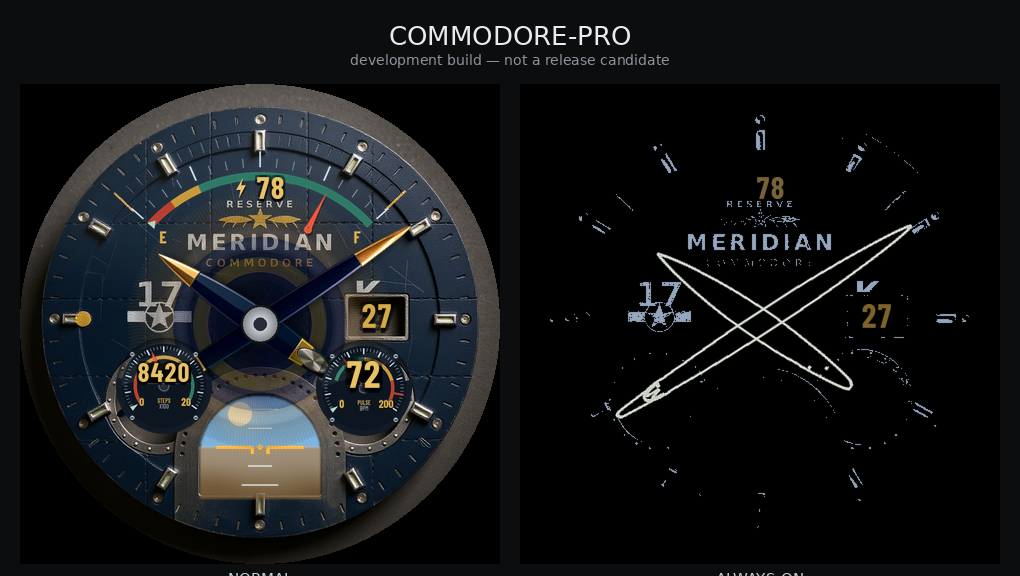
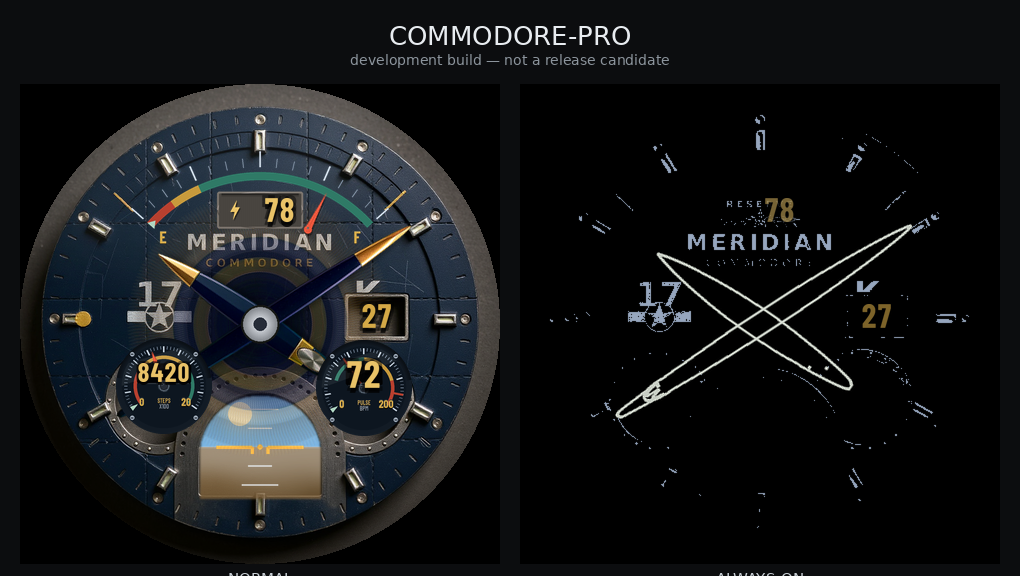
The battery number gets a window, and a stamping bug gets found
IT LOOKED THROWN ON BECAUSE IT HAD NO CONTAINER. Every other number on this
face sits in something: the sub-dial readouts in a recess cut into their own
gauge face, the date in a brass-framed aperture punched through the plate. The
fuel readout floated on bare textured navy with only a drop shadow, and a
shadow says "above" without saying "in".

So it gets the plate's OWN window idiom rather than an invented one — sampled
off cm_dial's date aperture: a warm grey frame at #78716A around a brushed
bronze interior at #49453F, lighter along the top edge where the bevel catches
light, darker at the bottom. Matching an idiom the face already owns is what
makes an addition look designed in rather than dropped on.

COST, STATED PLAINLY: the window covers the plate's RESERVE wording and its
wing emblem. The 24px slot above RESERVE was never tall enough for a framed
aperture, and the frame is the thing that stops the number floating. RESERVE
is misleading for a battery anyway — it is the aviation term for reserve FUEL
— and the bolt now carries that meaning. Say if the wing should come back; it
is one constant.

AND A REAL BUG, WITH WIDER REACH THAN THIS FACE. ImageDraw REPLACES a pixel,
alpha included — it does not blend. So every translucent shadow drawn straight
onto an opaque surface was not darkening it, it was PUNCHING A HOLE. Measured:
the window's interior came out at alpha 245 with a band of 92 along the top
[…]

diff --git a/tools/make_an_gauge.py b/tools/make_an_gauge.py
@@ -107,7 +107,24 @@ START_DEG = 235.0
 SWEEP_DEG = 250.0
 
 
-def engrave(d, xy, text, font, fill, p, anchor="mm", depth=1.0):
+def shade(img, fn):
+    """Composite semi-transparent work instead of stamping it.
+
+    ImageDraw REPLACES a pixel, alpha included — it does not blend. So a
+    "shadow" drawn at alpha 150 straight onto an opaque surface does not
+    darken it, it PUNCHES A HOLE to alpha 150 and the plate shows through.
+    That is exactly what happened to the fuel readout's window: its interior
+    measured alpha 245 with a band of 92 along the top where the inner shadow
+    was, and the plate's RESERVE wording read straight through it.
+
+    Anything translucent therefore goes onto its own layer and is composited.
+    """
+    layer = Image.new("RGBA", img.size, (0, 0, 0, 0))
+    fn(ImageDraw.Draw(layer))
+    img.alpha_composite(layer)
+
+
+def engrave(d, xy, text, font, fill, p, anchor="mm", depth=1.0, img=None):
     """Text with depth, instead of text laid flat on the dial.
 
     Real instrument lettering is either etched into the face or raised off
@@ -118,9 +135,16 @@ def engrave(d, xy, text, font, fill, p, anchor="mm", depth=1.0):
     """
     x, y = xy
     o = max(1.0, depth * SS * 0.9)
-    d.text((x, y + o), text, font=font, fill=p["emboss_lo"], anchor=anchor)
-    d.text((x, y - o * 0.7), text, font=font, fill=p["emboss_hi"],
-           anchor=anchor)
+    if img is not None:
+        shade(img, lambda dd: (
+            dd.text((x, y + o), text, font=font, fill=p["emboss_lo"],
+                    anchor=anchor),
+            dd.text((x, y - o * 0.7), text, font=font, fill=p["emboss_hi"],
+                    anchor=anchor)))
+    else:
+        d.text((x, y + o), text, font=font, fill=p["emboss_lo"], anchor=anchor)
+        d.text((x, y - o * 0.7), text, font=font, fill=p["emboss_hi"],
+               anchor=anchor)
     d.text((x, y), text, font=font, fill=fill, anchor=anchor)
 
 
@@ -159,11 +183,14 @@ def gauge(size: int, label: str, unit: str, numerals: list[tuple[float, str]],
     # 1 WELL — dark disc, with the rim shadowing into the top of it
     if bezel:
         d.ellipse(_arc_box(c, r_out), fill=p["well"])
-        for i in range(10, 0, -1):
-            rr = r_face + (r_out - r_face) * i / 10.0
-            d.arc(_arc_box(c, rr), 190, 350,
-                  fill=(0, 0, 0, int(120 * i / 10.0)),
-                  width=max(1, int(SS * 1.2)))
+        def _well(dd):
+            for i in range(10, 0, -1):
+                rr = r_face + (r_out - r_face) * i / 10.0
+                dd.arc(_arc_box(c, rr), 190, 350,
+                       fill=(0, 0, 0, int(120 * i / 10.0)),
+                       width=max(1, int(SS * 1.2)))
+        shade(img, _well)
+        d = ImageDraw.Draw(img)
 
     # 2 DIAL FACE — matte, graded very slightly darker at the bottom
     d.ellipse(_arc_box(c, r_face), fill=p["face"])
@@ -304,11 +331,13 @@ def finish(img, geom, size: int, counter: str | None, bezel: bool,
         # A cut window, not a dark patch: the aperture is punched through the
         # dial, so its top edge shadows inward and its bottom edge catches
         # the light coming down the panel.
-        d.rounded_rectangle(box, radius=pad, fill=(0, 0, 0, 215))
-        d.line([(box[0] + pad, box[1]), (box[2] - pad, box[1])],
-               fill=(0, 0, 0, 235), width=max(1, int(SS * 1.6)))
-        d.line([(box[0] + pad, box[3]), (box[2] - pad, box[3])],
-               fill=(255, 255, 255, 40), width=max(1, int(SS * 1.1)))
+        shade(img, lambda dd: (
+            dd.rounded_rectangle(box, radius=pad, fill=(0, 0, 0, 215)),
+            dd.line([(box[0] + pad, box[1]), (box[2] - pad, box[1])],
+                    fill=(0, 0, 0, 235), width=max(1, int(SS * 1.6))),
+            dd.line([(box[0] + pad, box[3]), (box[2] - pad, box[3])],
+                    fill=(255, 255, 255, 40), width=max(1, int(SS * 1.1)))))
+        d = ImageDraw.Draw(img)
         if counter is not None:
             engrave(d, (c, cy), counter, f_c, p["counter"], p, depth=1.4)
 
@@ -471,6 +500,56 @@ def fuel_needle(canvas: int, cx: float, cy: float, r_tip: float,
     d.ellipse([CX - boss * 0.42, CY - root - boss * 0.62,
                CX + boss * 0.1, CY - root - boss * 0.05],
               fill=(255, 255, 255, 90))
+    return img.resize((canvas, canvas), Image.LANCZOS)
+
+
+def counter_window(canvas: int, cx: float, cy: float, w: float, h: float,
+                   pal: dict | None = None) -> Image.Image:
+    """A framed, recessed readout window, matching the plate's date aperture.
+
+    The battery number read as thrown on, and the reason was that it had no
+    container. Every other number on this face sits in something: the
+    sub-dial readouts in a recess cut into their own gauge face, the date in
+    a brass-framed aperture punched through the plate. The fuel readout was
+    floating on bare textured navy with only a drop shadow to hold it, and a
+    shadow says "above" without saying "in".
+
+    So it gets the plate's OWN window idiom, sampled from cm_dial's date
+    aperture: a warm grey frame around a brushed bronze interior, lighter
+    along the top edge where the bevel catches light and darker at the
+    bottom. Matching an idiom the face already owns is what makes an addition
+    look designed in rather than dropped on.
+    """
+    p = dict(PALETTE, **(pal or {}))
+    S = canvas * SS
+    img = Image.new("RGBA", (S, S), (0, 0, 0, 0))
+    d = ImageDraw.Draw(img)
+    X, Y = cx * SS, cy * SS
+    W, H = w * SS / 2.0, h * SS / 2.0
+    r = max(2, int(SS * 2.5))
+    fr = max(2, int(SS * 1.4))
+
+    box = [X - W, Y - H, X + W, Y + H]
+    # frame, then a lighter top edge and darker bottom so it reads as bevel
+    d.rounded_rectangle(box, radius=r, fill=(120, 113, 106, 255))
+    d.arc(box, 180, 360, fill=(146, 138, 133, 255), width=fr)
+    d.arc(box, 0, 180, fill=(88, 82, 76, 255), width=fr)
+    # brushed bronze interior, sampled off the plate's date window
+    inner = [X - W + fr * 1.6, Y - H + fr * 1.6, X + W - fr * 1.6,
+             Y + H - fr * 1.6]
+    d.rounded_rectangle(inner, radius=max(1, r - fr), fill=(73, 69, 64, 255))
+    def _inside(dd):
+        for i in range(int(inner[0]), int(inner[2]), max(1, SS)):
+            if (i // max(1, SS)) % 2:
+                dd.line([(i, inner[1]), (i, inner[3])],
+                        fill=(66, 62, 57, 120), width=1)
+        # the aperture is punched THROUGH, so its top edge casts inward
+        for i in range(6):
+            a = int(150 * (1 - i / 6.0))
+            dd.line([(inner[0] + r, inner[1] + i * SS * 0.6),
+                     (inner[2] - r, inner[1] + i * SS * 0.6)],
+                    fill=(0, 0, 0, a), width=max(1, int(SS * 0.7)))
+    shade(img, _inside)
     return img.resize((canvas, canvas), Image.LANCZOS)
 
 

diff --git a/tools/make_pro_face.py b/tools/make_pro_face.py
@@ -163,8 +163,15 @@ FUEL_START, FUEL_SWEEP, FUEL_R = -48.0, 96.0, 152.0
 # The readout sits BELOW the arc's apex (r=152 puts that at y=88) and above
 # the plate's RESERVE at y=116 — a 26px band, so the number is centred in it
 # rather than straddling the arc as it did at first.
-FUEL_TEXT_CY = 104.0
-BOLT_X = 221.0
+# The readout now sits in a framed window BELOW the arc rather than in the
+# 24px slot above the plate's RESERVE. That slot was never big enough for a
+# framed aperture, and the frame is what stops the number floating.
+# Cost, stated plainly: the window covers the plate's RESERVE wording and its
+# wing emblem. RESERVE is misleading for a battery anyway — it is the
+# aviation term for reserve FUEL — and the bolt now carries that meaning.
+FUEL_WIN = (240.0, 126.0, 86.0, 37.0)      # cx, cy, w, h
+FUEL_TEXT_CY = 126.0
+BOLT_X = 215.0
 COUNTER_CY = 0.36        # must match make_an_gauge.COUNTER_CY
 
 
@@ -252,10 +259,9 @@ def instruments(pre: str) -> list[str]:
     # reserve and date, also enlarged — "all of the important numbers"
     # No percent sign: the owner asked for it gone, and a fuel gauge does
     # not carry one — a real one reads in gallons or in fractions of a tank.
-    # The clear band is only 24px tall — the arc's inner edge is at y=92 and
-    # the plate's RESERVE starts at y=116 — so 22 is the largest size that
-    # clears both. At 24 the digits grazed the arc above and the label below.
-    o += readout("z20_reserve", 214, int(FUEL_TEXT_CY - 15), 74, 30, 22,
+    # Inside the window, so the digits have something to sit in. 24 fits the
+    # 29px interior with room either side.
+    o += readout("z20_reserve", 226, int(FUEL_TEXT_CY - 16), 68, 32, 24,
                  "BATTERY_PERCENT", colour="#EBC468", amb=130)
     # Aperture interior measured off the plate: x 327..386, y 212..251,
     # so its centre is (356.5, 232.5). The base face centred its date on
@@ -535,6 +541,7 @@ def an_gauges(face: str, dd: Path) -> None:
     # The bolt goes LEFT of the readout and the readout shifts right by half
     # its width, so the pair reads as one group centred on the dial rather
     # than a number with something stuck beside it.
+    arc.alpha_composite(G.counter_window(480, *FUEL_WIN))
     arc.alpha_composite(G.power_bolt(480, BOLT_X, FUEL_TEXT_CY, 19))
     arc.save(dd / f"{pre}_fuel_arc.png", optimize=True)
     G.fuel_needle(480, 240, 240, FUEL_R - 5,
